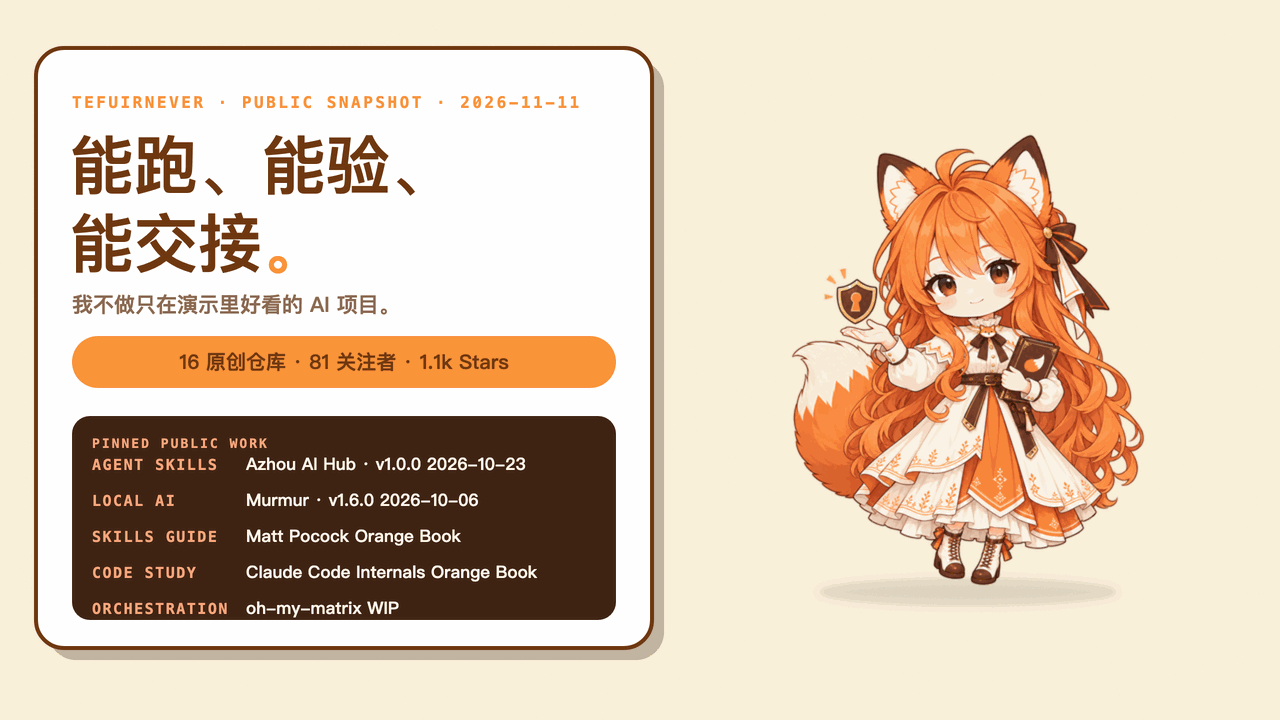
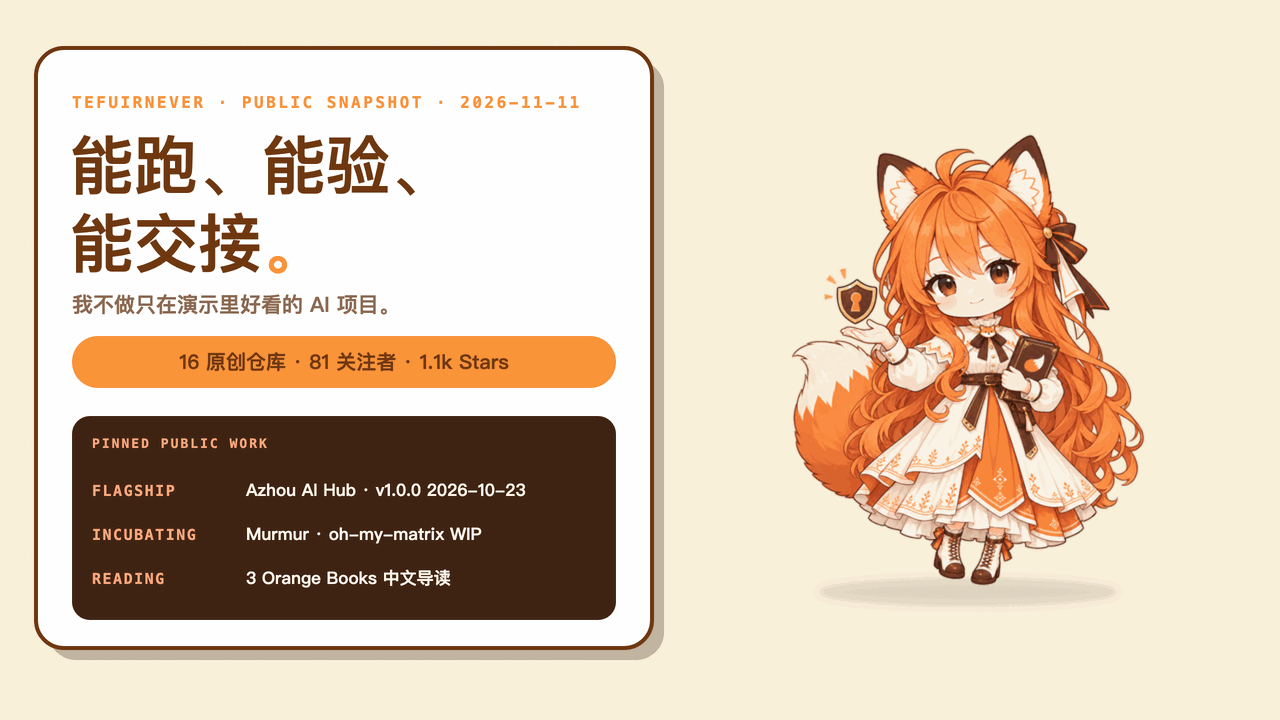
docs(profile): focus the page on Azhou AI Hub flagship
- FLAGSHIP section: Azhou AI Hub full entry with card
- Murmur / oh-my-matrix / three orange books folded into one
  ON THE BENCH block (incubating + published reading lines)
- hero panel pinned list re-tiered to FLAGSHIP / INCUBATING / READING
- unreferenced project card assets kept in assets/ for future reuse

Changed region(s): [[0.0625, 0.7333, 0.4062, 0.8556], [0.1875, 0.6111, 0.4062, 0.7028], [0.0625, 0.6417, 0.1562, 0.7028]]

diff --git a/README.md b/README.md
@@ -37,7 +37,7 @@
 
 ---
 
-## NOW BUILDING / 正在构建
+## FLAGSHIP / 旗舰项目
 
 ### [Azhou AI Hub](https://github.com/TeFuirnever/azhou-ai-hub) · 经得起验证的 Agent Skills
 
@@ -47,39 +47,13 @@
 
 [![Azhou AI Hub — verified Agent Skill system](https://raw.githubusercontent.com/TeFuirnever/TeFuirnever/main/assets/profile/card-azhou-ai-hub.svg)](https://github.com/TeFuirnever/azhou-ai-hub)
 
-### [Murmur](https://github.com/TeFuirnever/Murmur) · 为中文优化的本地 AI 语音输入
-
-[![Murmur release](https://img.shields.io/github/v/release/TeFuirnever/Murmur?style=flat&label=release&color=FAA67C)](https://github.com/TeFuirnever/Murmur/releases)
-
-说话就能打字，也能批量转写音频，再用 AI 整理成可继续编辑的文本；语音识别在本地完成。
-
-[![Murmur — local AI voice input](https://raw.githubusercontent.com/TeFuirnever/TeFuirnever/main/assets/profile/card-murmur.svg)](https://github.com/TeFuirnever/Murmur)
-
-### [oh-my-matrix](https://github.com/TeFuirnever/oh-my-matrix) · OpenClaw-native Agent 编排扩展
-
-让长程任务持续执行，把复杂工作拆成可验证的并行流程，并在真实工具调用前守住权限边界。当前仍是 WIP。
-
-[![oh-my-matrix — Agent orchestration stack](https://raw.githubusercontent.com/TeFuirnever/TeFuirnever/main/assets/profile/card-oh-my-matrix.svg)](https://github.com/TeFuirnever/oh-my-matrix)
-
 ---
 
-## ORANGE BOOKS / 橙皮书
+## ON THE BENCH / 实验台上
 
-### [Matt Pocock Skills Orange Book](https://github.com/TeFuirnever/matt-pocock-skills-orange-book) · AI 协作开发的 Skills 中文导读
+**孵化中** · [Murmur](https://github.com/TeFuirnever/Murmur) 为中文优化的本地语音输入 · [oh-my-matrix](https://github.com/TeFuirnever/oh-my-matrix) Agent 编排扩展（WIP）
 
-面向 AI 协作开发新手，整理 37 个 Skills、匿名 UI 客户端实例、Excalidraw 与阿舟图解。
-
-[![Matt Pocock Skills Orange Book — 37 个 Skills 中文导读](https://raw.githubusercontent.com/TeFuirnever/TeFuirnever/main/assets/profile/card-matt-pocock-skills-orange-book.svg)](https://github.com/TeFuirnever/matt-pocock-skills-orange-book)
-
-### [Claude Code Internals Orange Book](https://github.com/TeFuirnever/claude-code-internals-orange-book) · Claude Code 内核走读
-
-用五卷内容拆解 Claude Code 的设计决策与关键内部机制，给出可继续追踪的源码阅读路径。
-
-[![Claude Code Internals Orange Book — 五卷内核走读](https://raw.githubusercontent.com/TeFuirnever/TeFuirnever/main/assets/profile/card-claude-code-internals-orange-book.svg)](https://github.com/TeFuirnever/claude-code-internals-orange-book)
-
-### [DeepSeek Harness Orange Book](https://github.com/TeFuirnever/deepseek-harness-orange-book) · 全插件 Agent 内核走读
-
-四卷套装：实战指南 × 源码走读 × mini-harness × 演进与评价，对着 pinned 源码树读懂全插件 Agent 内核。
+**已发布阅读** · [Matt Pocock Skills 橙皮书](https://github.com/TeFuirnever/matt-pocock-skills-orange-book) · [Claude Code Internals 橙皮书](https://github.com/TeFuirnever/claude-code-internals-orange-book) · [DeepSeek Harness 橙皮书](https://github.com/TeFuirnever/deepseek-harness-orange-book)
 
 ---
 
